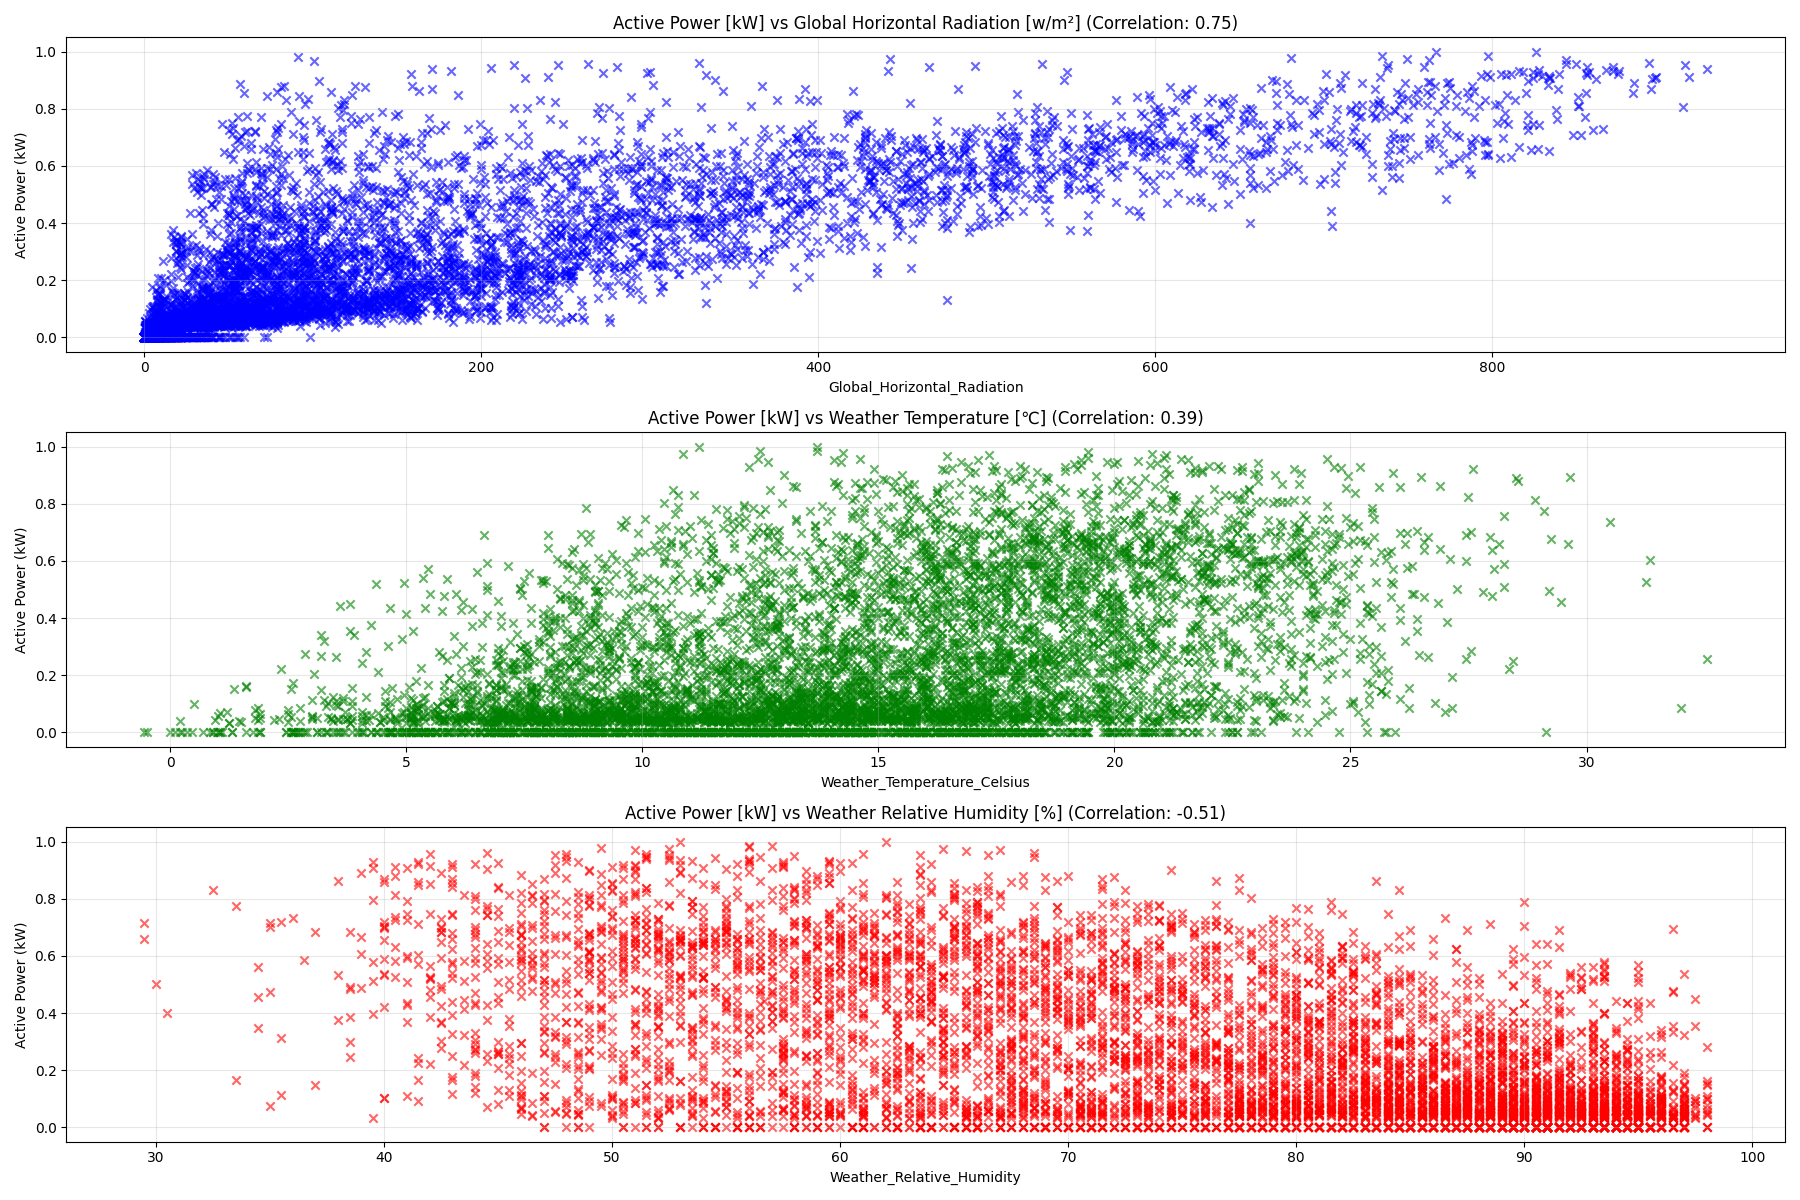
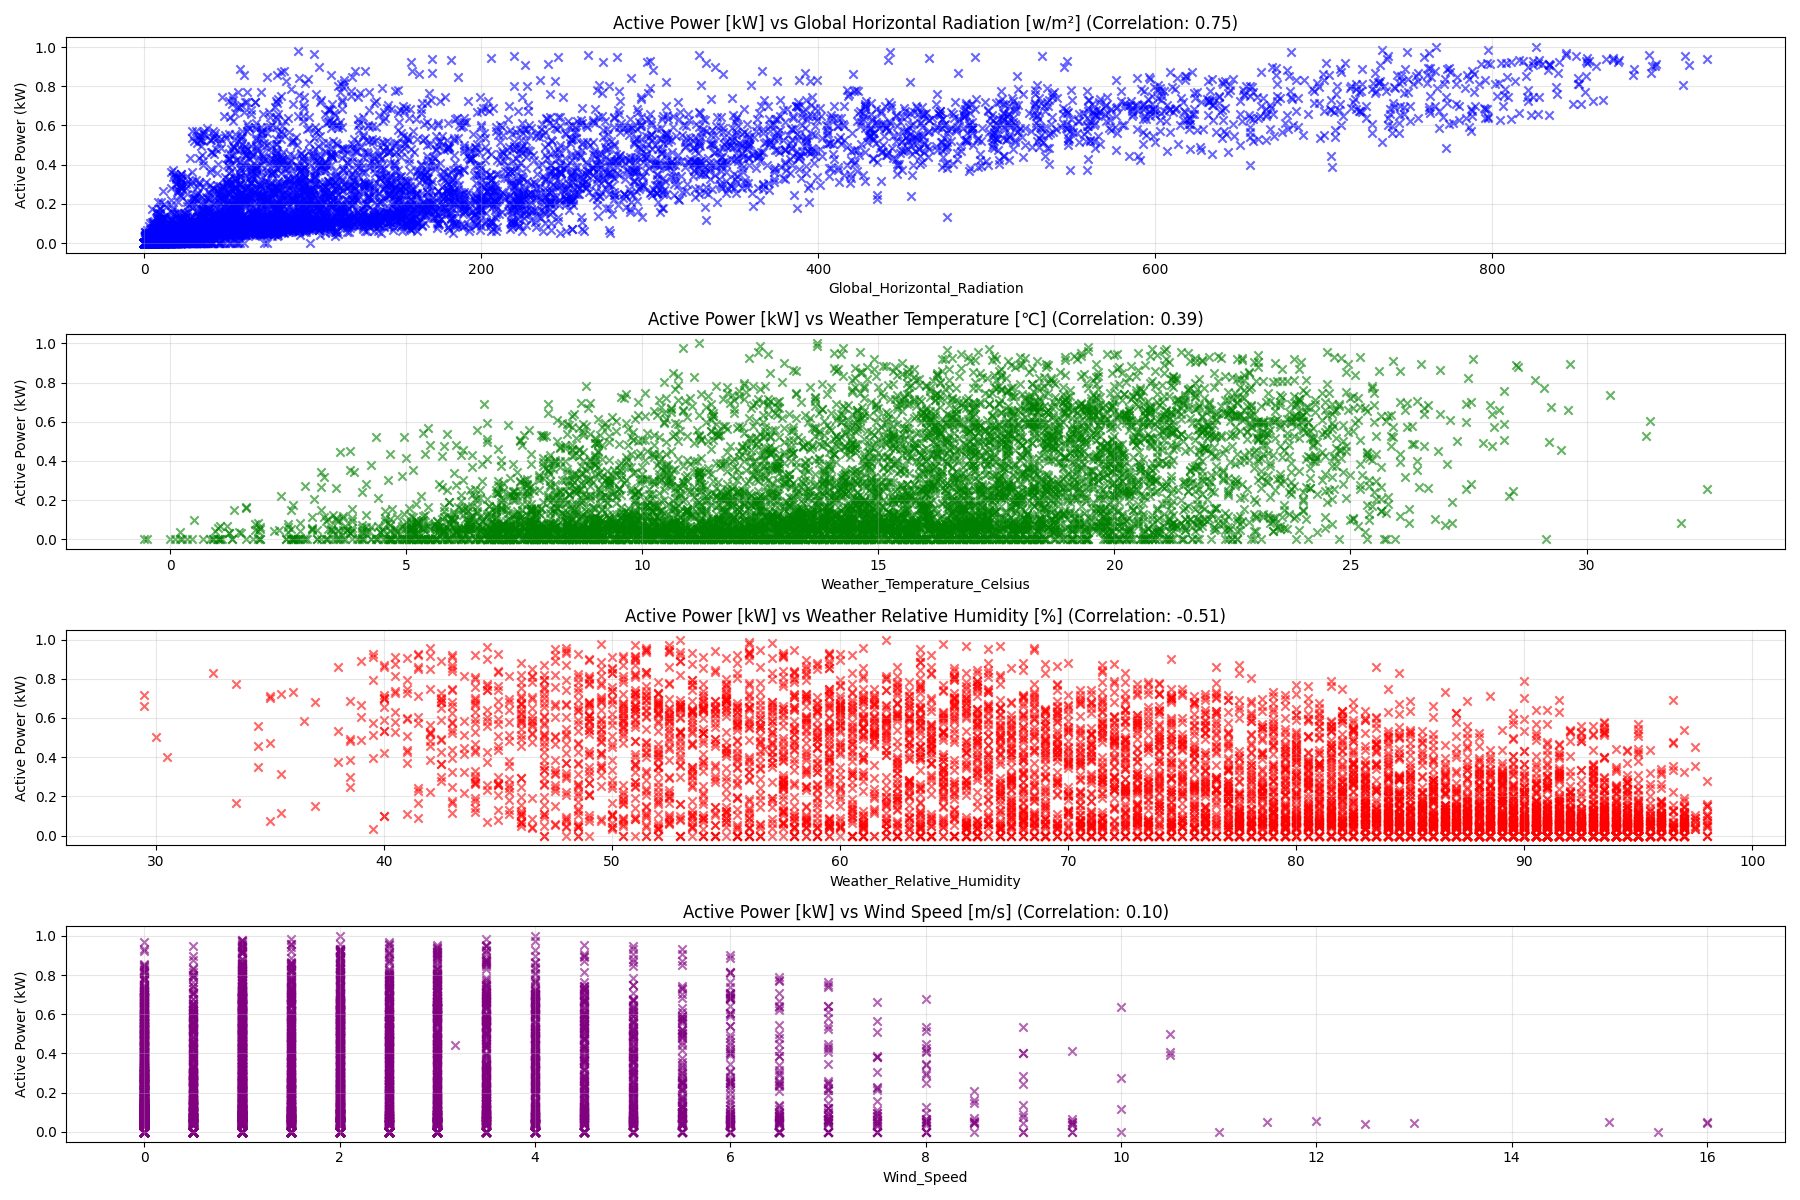
update: add wind plot

diff --git a/data_preprocessing/UK/plot_correlation.py b/data_preprocessing/UK/plot_correlation.py
@@ -43,15 +43,15 @@ correlations = combined_df.corr()['Active_Power']
 plt.figure(figsize=(18, 12))
 
 # List of features to plot
-# features = ['Global_Horizontal_Radiation', 'Weather_Temperature_Celsius', 'Weather_Relative_Humidity', 'Wind_Speed']
-features = ['Global_Horizontal_Radiation', 'Weather_Temperature_Celsius', 'Weather_Relative_Humidity']
+features = ['Global_Horizontal_Radiation', 'Weather_Temperature_Celsius', 'Weather_Relative_Humidity', 'Wind_Speed']
+# features = ['Global_Horizontal_Radiation', 'Weather_Temperature_Celsius', 'Weather_Relative_Humidity']
 # features = ['Global_Horizontal_Radiation', 'Weather_Temperature_Celsius', 'Wind_Speed']
 
 colors = ['blue', 'green', 'red', 'purple']
 titles = ['Active Power [kW] vs Global Horizontal Radiation [w/m²]',
           'Active Power [kW] vs Weather Temperature [℃]',
-          'Active Power [kW] vs Weather Relative Humidity [%]']
-          # 'Active Power [kW] vs Wind Speed [m/s]']
+          'Active Power [kW] vs Weather Relative Humidity [%]',
+          'Active Power [kW] vs Wind Speed [m/s]']
 
 # Loop through each feature and create a scatter plot
 for i, feature in enumerate(features):
